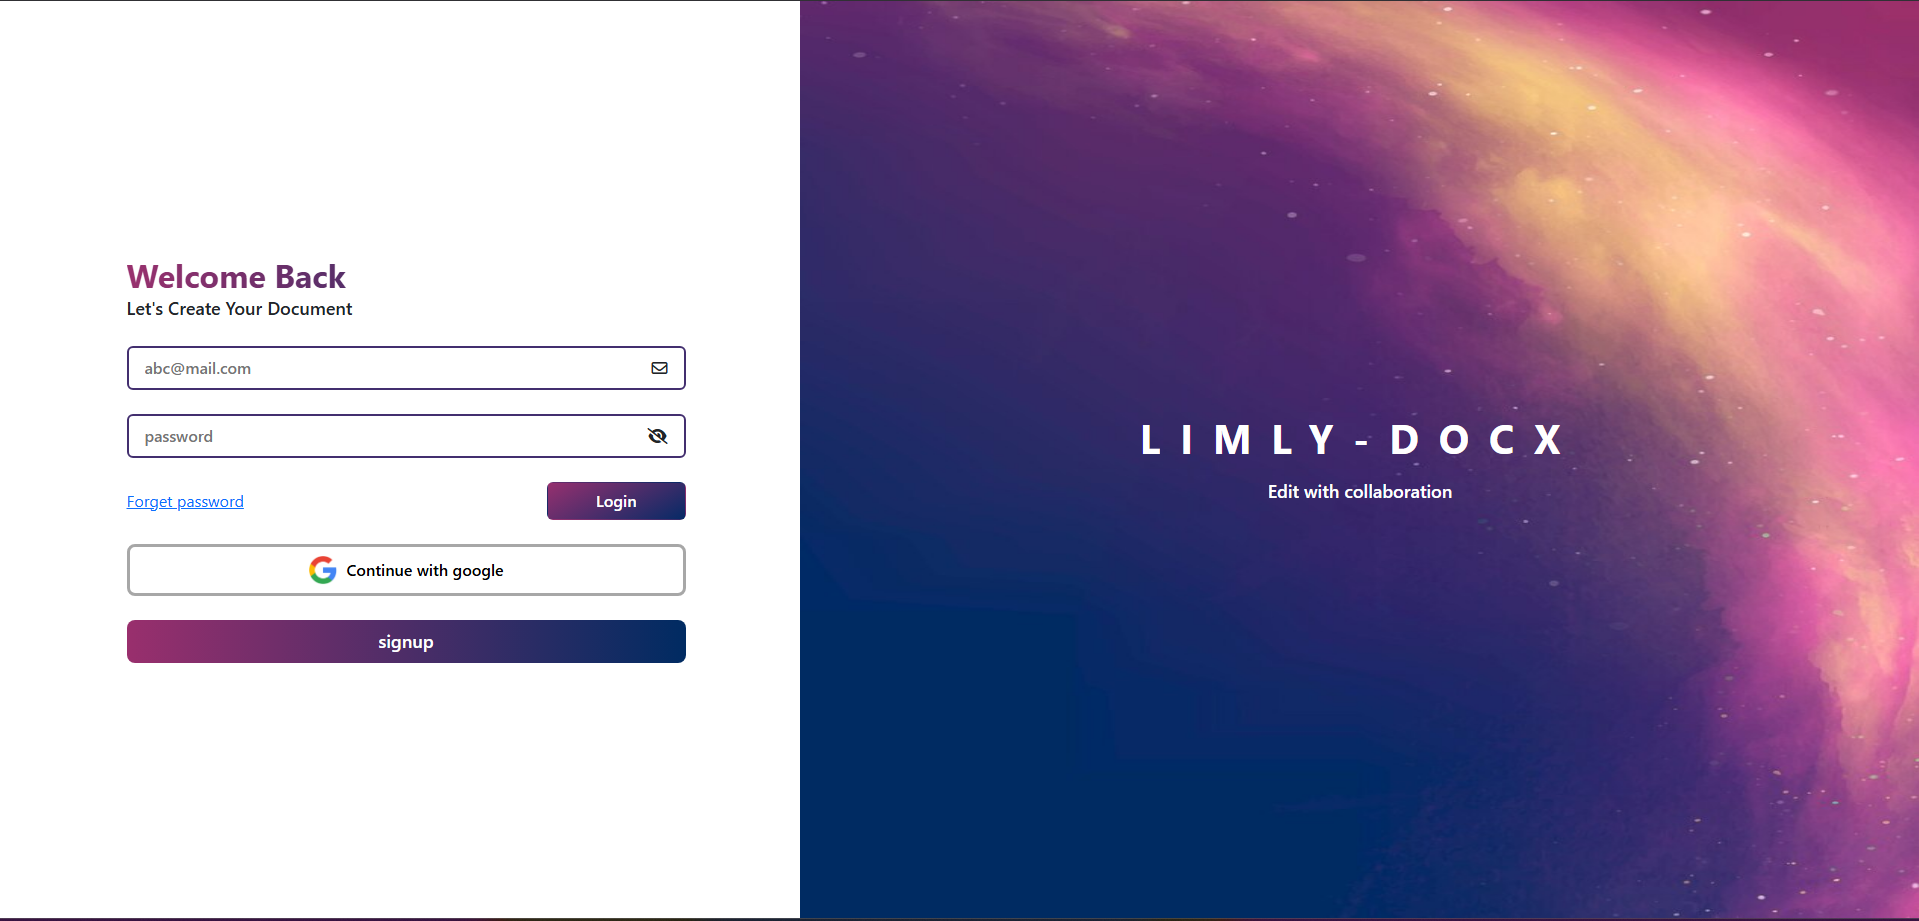
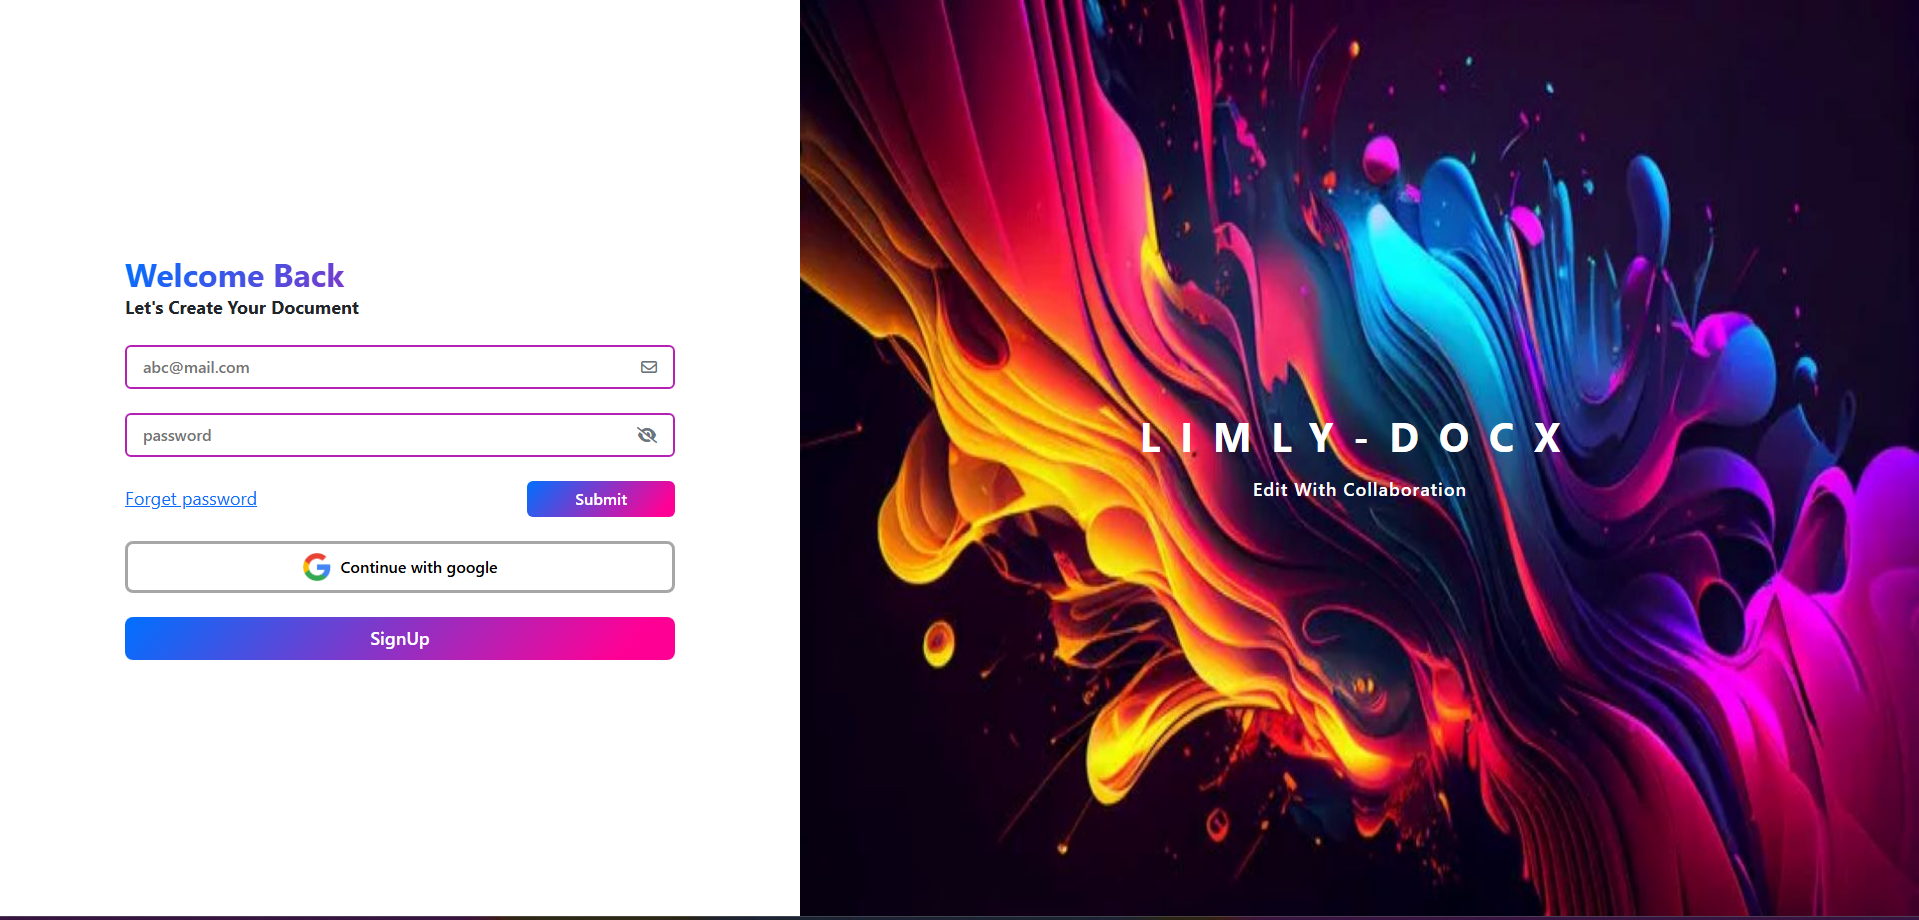
Update - Readme

diff --git a/limlydocx/src/main/resources/templates/Authentication.html b/limlydocx/src/main/resources/templates/Authentication.html
@@ -44,7 +44,7 @@
                 class="col-12 col-md-6 col-xl-7  position-relative d-flex align-items-center justify-content-center login-image"
                 aria-label="Authentication image">
                 <!-- <img src="../static/img/login.jpg" alt="" class="position-absolute w-100 h-100"> -->
-                <img th:src="@{/img/login.webp}" alt="image with text" class="w-100 h-100 position-absolute">
+                <img th:src="@{/img/authentication.jpg}" alt="image with text" class="w-100 h-100 position-absolute">
                 <header class="text-center text-white d-flex flex-column gap-2 py-2">
                     <h1 class="z-1 ls-md letter-spacing-normal text-uppercase fw-bold">
                         Limly-DocX

diff --git a/limlydocx/src/main/java/com/limlydocx/controller/DocumentController.java b/limlydocx/src/main/java/com/limlydocx/controller/DocumentController.java
@@ -115,13 +115,13 @@ public class DocumentController {
 
         switch (format.toLowerCase()){
 
-            case "pdf" ->{
+            case "pdf" -> {
                 uniqueFileName.append(".pdf");
                 status = documentService.generatePdfAndUploadOnCloud(content, uniqueFileName.toString());
                 log.info("USER SELECT PDF");
             }
 
-            case "docx"->{
+            case "docx" -> {
                 uniqueFileName.append(".docx");
                 status = documentService.generateDocxFile(content,uniqueFileName.toString());
                 log.info("USER SELECT DOCX");
